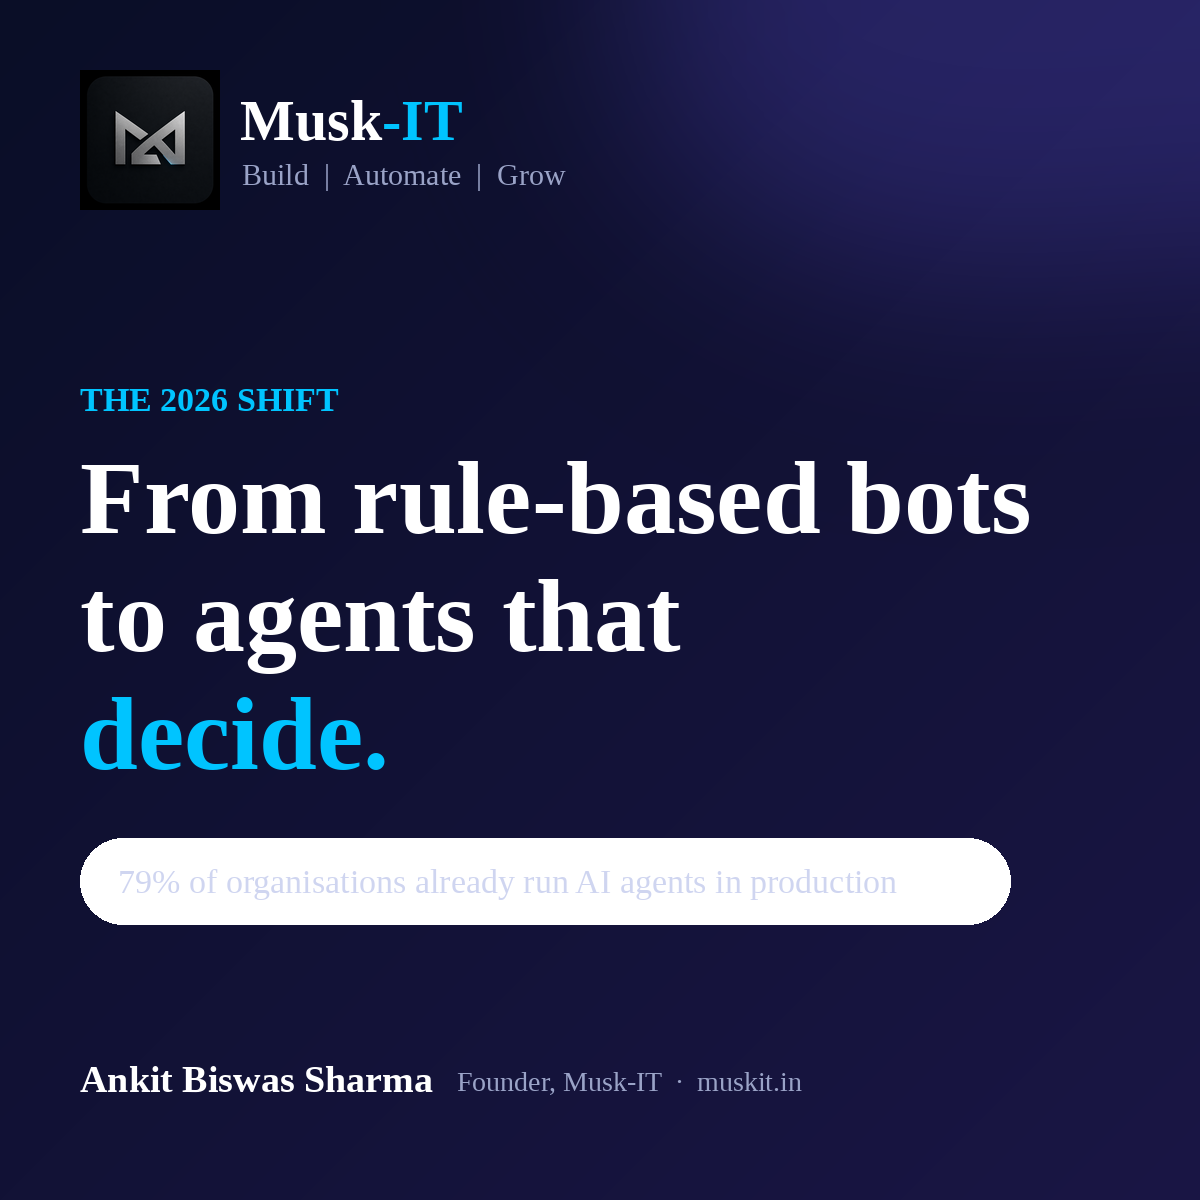
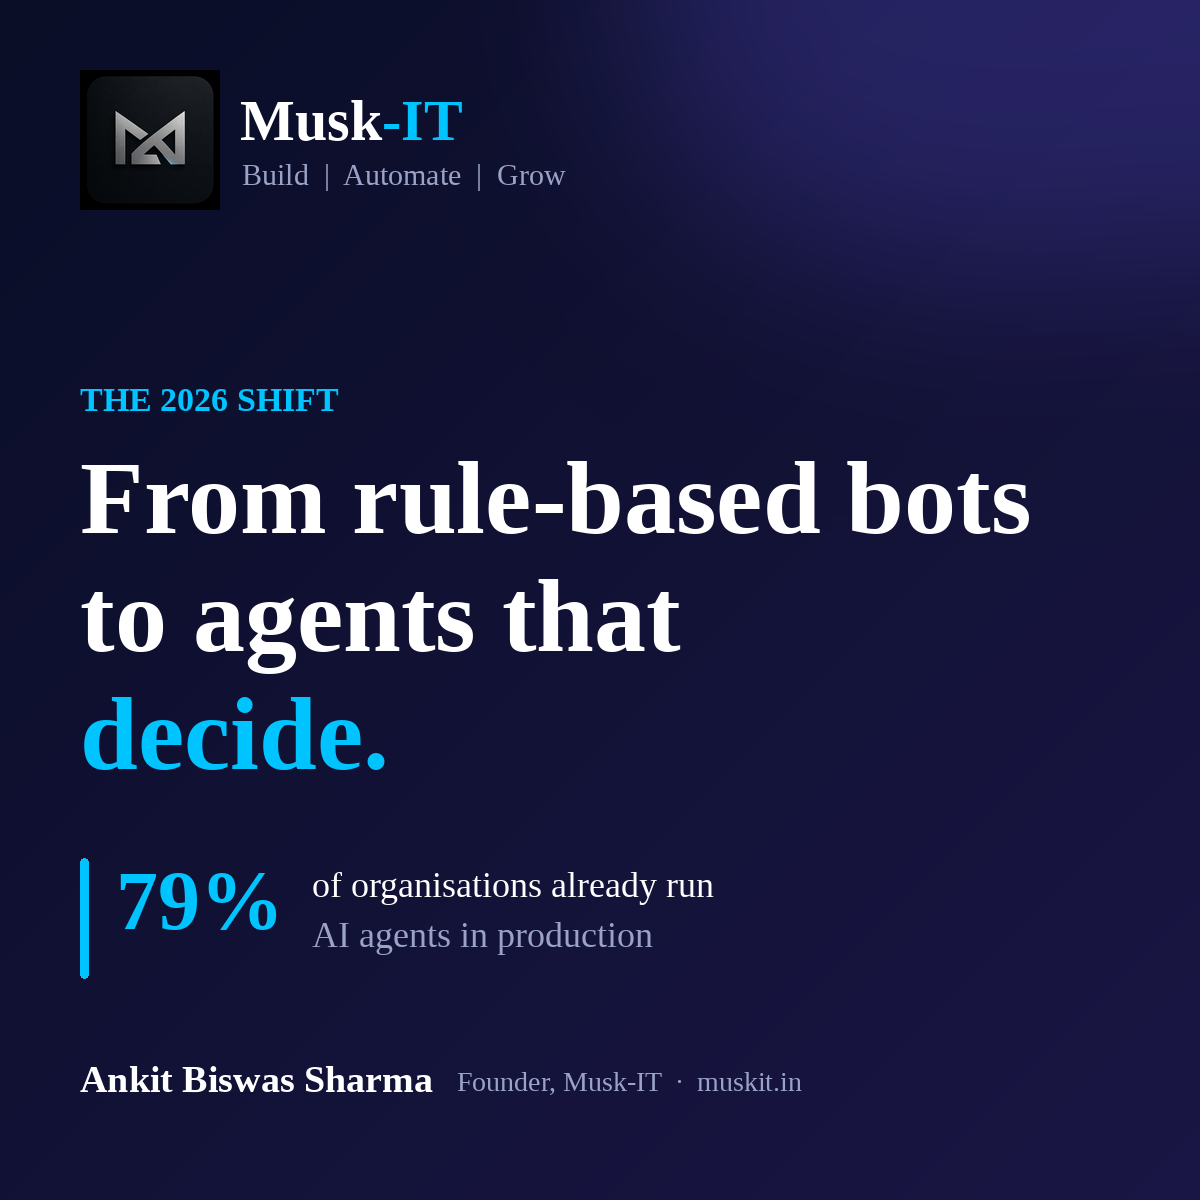
Our Work Pages

Changed region(s): [[0.0617, 0.6783, 0.8633, 0.8325]]

diff --git a/frontend/app/work/page.js b/frontend/app/work/page.js
@@ -2,7 +2,7 @@ import CtaBanner from "@/components/CtaBanner";
 import JsonLd from "@/components/JsonLd";
 import PageHero from "@/components/PageHero";
 import SectionIntro from "@/components/SectionIntro";
-import { portfolioProjects } from "@/lib/site-data";
+import { featuredProjects, portfolioProjects } from "@/lib/site-data";
 import { breadcrumbJsonLd, buildMetadata, serviceJsonLd } from "@/lib/seo.mjs";
 
 export const metadata = buildMetadata("/work");
@@ -22,6 +22,50 @@ export default function WorkPage() {
       />
 
       <section className="page-section">
+        <div className="shell stack-lg">
+          <SectionIntro
+            eyebrow="Featured Builds"
+            title="Products we've shipped"
+            text="Two of our own platforms, live in production. Explore them yourself — these aren't mockups, they're the real software."
+          />
+          <div className="work-grid">
+            {featuredProjects.map((project) => (
+              <article className="card work-card featured-work-card" key={project.title}>
+                <div className="work-card-head">
+                  <span className="work-sector">{project.sector}</span>
+                  <span className="work-metric">{project.metric}</span>
+                </div>
+                <h3>{project.title}</h3>
+                <p>{project.summary}</p>
+                <ul className="bullet-list compact">
+                  {project.highlights.map((highlight) => (
+                    <li key={highlight}>{highlight}</li>
+                  ))}
+                </ul>
+                <div className="tech-badge-row" style={{ justifyContent: "flex-start" }}>
+                  {project.tech.map((tech) => (
+                    <span className="tech-badge" key={tech}>
+                      {tech}
+                    </span>
+                  ))}
+                </div>
+                <div className="featured-work-actions">
+                  <a
+                    className="button button-primary btn-sm"
+                    href={project.liveUrl}
+                    target="_blank"
+                    rel="noopener noreferrer"
+                  >
+                    {project.liveLabel}
+                  </a>
+                </div>
+              </article>
+            ))}
+          </div>
+        </div>
+      </section>
+
+      <section className="page-section section-tinted">
         <div className="shell stack-lg">
           <SectionIntro
             eyebrow="Project Portfolio"

diff --git a/frontend/lib/site-data.js b/frontend/lib/site-data.js
@@ -879,6 +879,39 @@ export const portfolioProjects = [
   },
 ];
 
+export const featuredProjects = [
+  {
+    title: "Construction ERP V6",
+    sector: "Construction / EPC",
+    summary:
+      "A multi-tenant, modular-monolith ERP that runs an EPC contractor end to end — projects and buildings, BOQ and delivery challans, drawing submission workflows, procurement planning, and full execution planning with WBS, dependencies, EVM, and AI forecasting.",
+    highlights: [
+      "Real-time execution planning over WebSockets — WBS, Gantt, daily progress, and S-curve / EVM analytics",
+      "License-driven module enablement with company isolation and role-based access",
+      "Workflow Studio + runtime for configurable approval paths, plus Excel / Word / PDF report exports",
+    ],
+    tech: ["React", "Vite", "FastAPI", "PostgreSQL", "WebSockets"],
+    metric: "Live production deployment",
+    liveUrl: "https://oeeppl.muskit.in",
+    liveLabel: "View Live ERP",
+  },
+  {
+    title: "AI HVAC Load & Design Platform",
+    sector: "HVAC Engineering",
+    summary:
+      "An AI-integrated HVAC load calculator and design studio (HAP-style) that sizes heat loads and airflow, lays out diffusers, selects equipment, and estimates cost — then proposes cost-effective, balanced, and efficiency-first design concepts.",
+    highlights: [
+      "AI Design Studio compares alternative concepts and turns warnings into specific corrective actions",
+      "ISO 14644 cleanroom mode (ISO 5–9) sizing recirculation airflow, filtration, and pressure regimes",
+      "Local rule-based engineering core always works; optional OpenAI layer enhances the guidance",
+    ],
+    tech: ["Node.js", "JavaScript", "PostgreSQL", "OpenAI"],
+    metric: "Live at hvac.muskit.in",
+    liveUrl: "https://hvac.muskit.in",
+    liveLabel: "Open HVAC App",
+  },
+];
+
 export const faqGroups = [
   {
     category: "General",

diff --git a/frontend/app/globals.css b/frontend/app/globals.css
@@ -4597,6 +4597,20 @@ html[data-theme="dark"] .hero-trust-item {
   color: var(--highlight);
 }
 
+.featured-work-card {
+  border-color: var(--border-strong);
+  background: linear-gradient(180deg, var(--surface-brand), var(--surface));
+}
+
+.featured-work-actions {
+  margin-top: auto;
+  padding-top: 6px;
+}
+
+.featured-work-actions .button {
+  width: fit-content;
+}
+
 /* ---- FAQ ----------------------------------------------------------- */
 .faq-group-eyebrow {
   font-size: 13px;